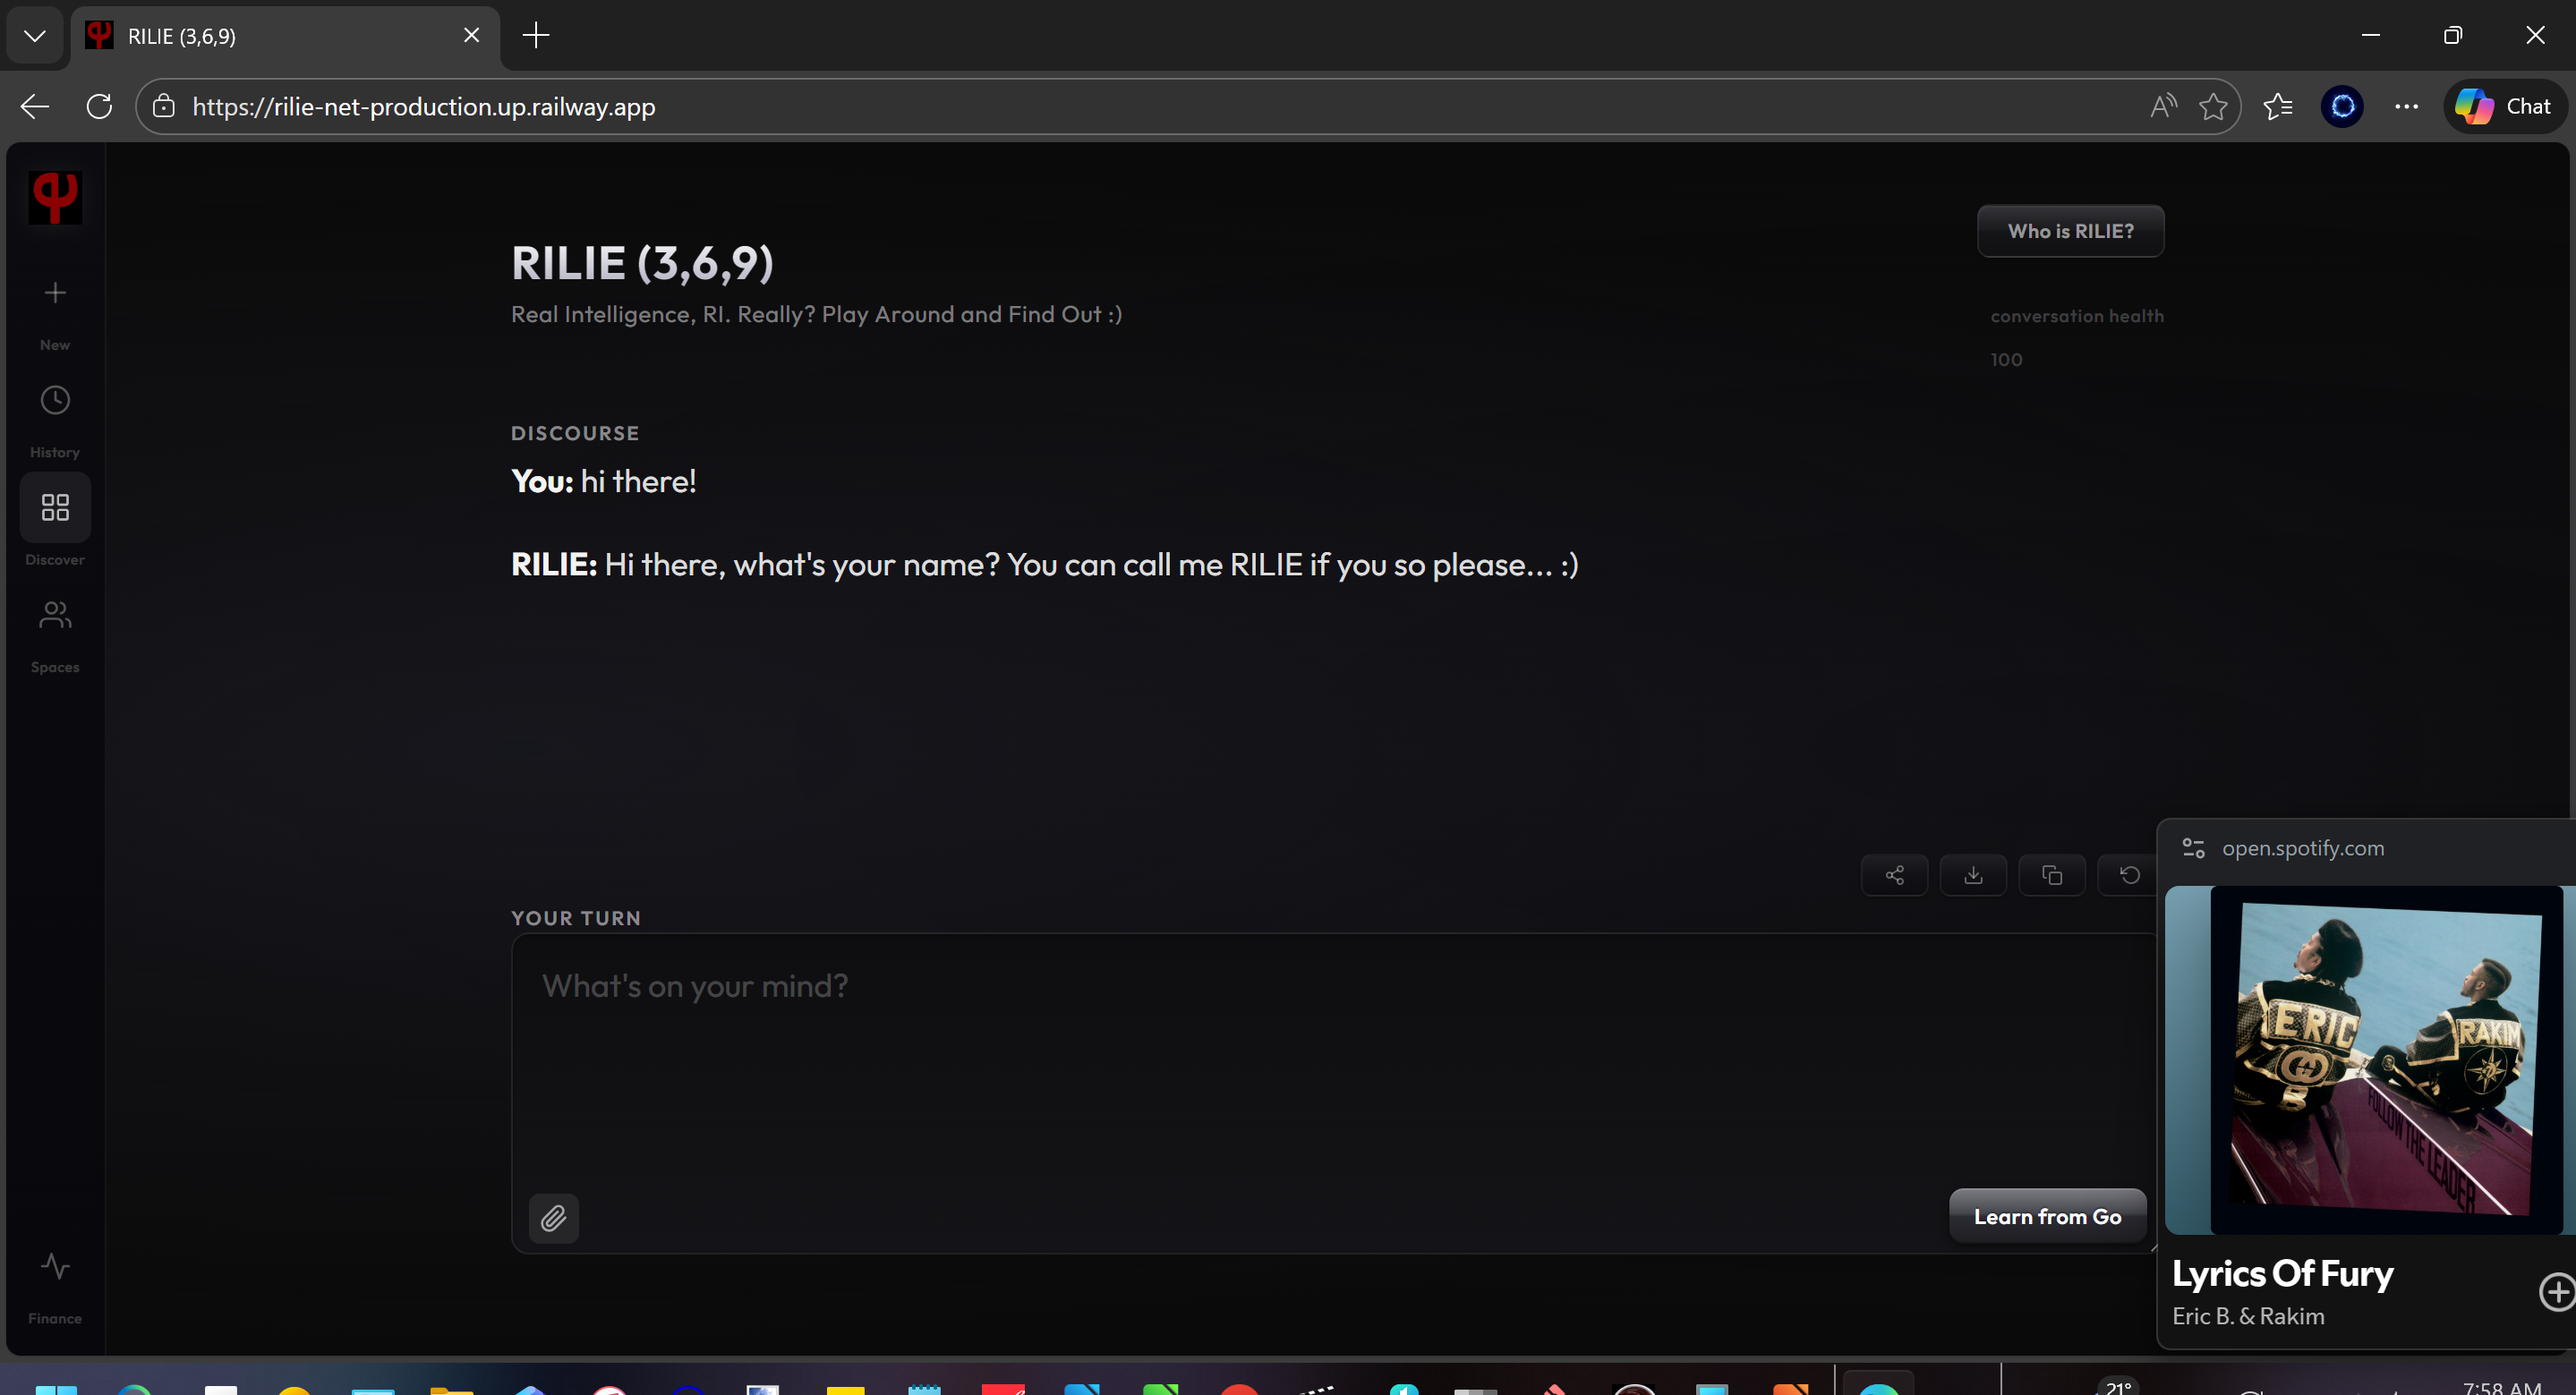
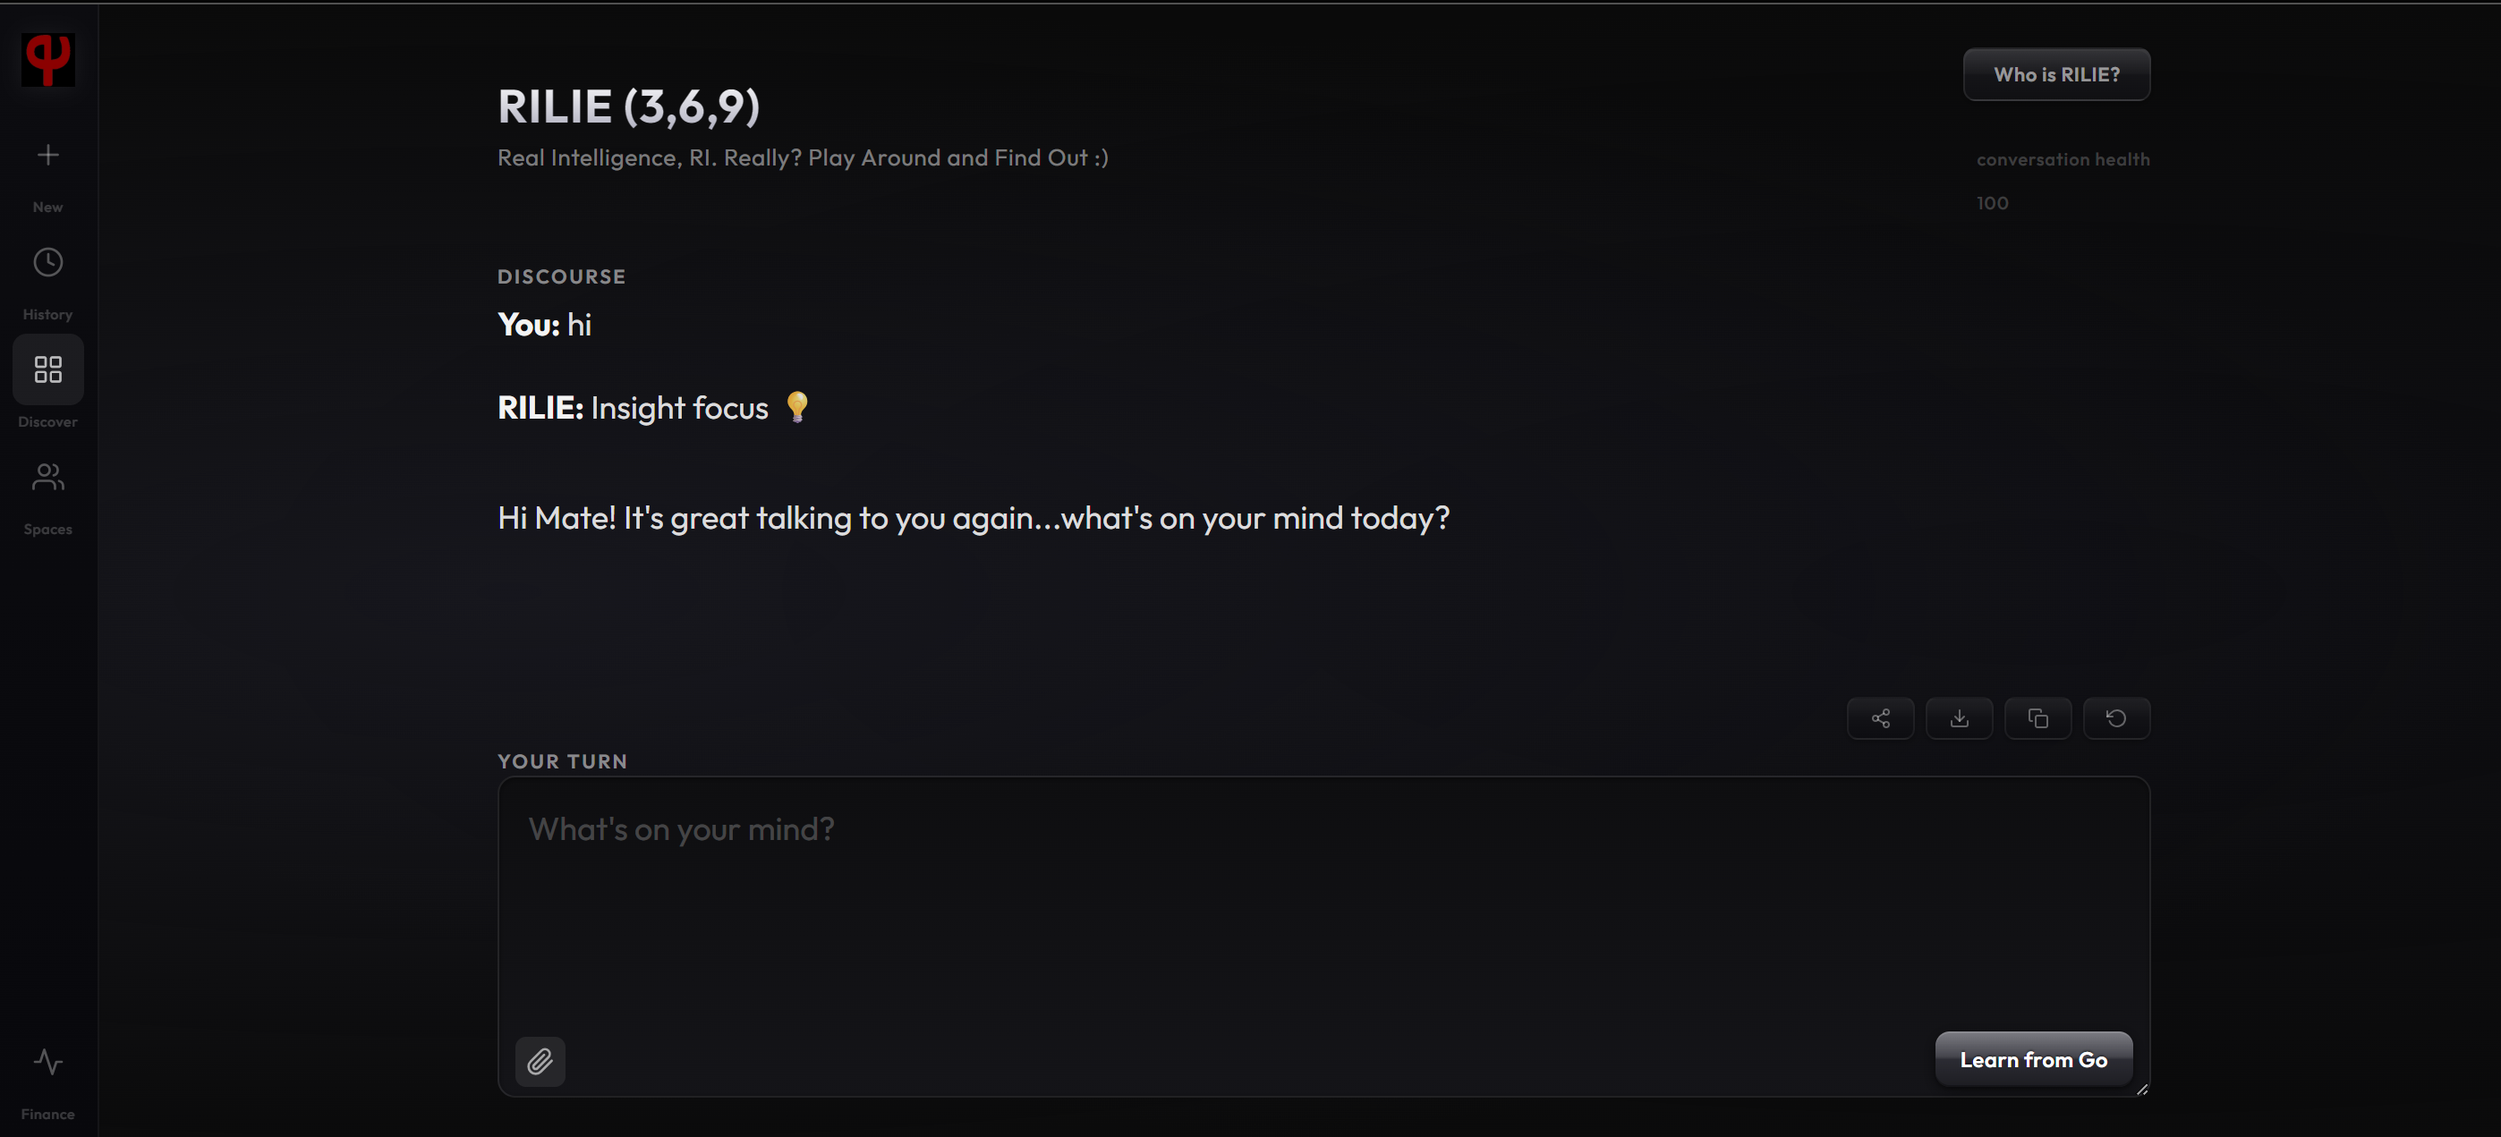
allthewaylive

diff --git a/rilie_2xd.py b/rilie_2xd.py
@@ -97,53 +97,22 @@ SERIOUS_TASTE_TEMPLATES_2 = [
     "Keep going — I'm with you.",
 ]
 
+
 # ============================================================================
 # PUBLIC API: Build response by exchange count
 # ============================================================================
+
 
 def shape_for_disclosure(
     raw_result: str,
     conversation: ConversationState,
 ) -> str:
     """
-    Decide what text should actually be spoken this turn.
-
-    - TASTE (turns 1–2): ignore Kitchen text and emit Hostess templates.
-      Kitchen may still run under the hood; we just don't serve its words yet.
-    - OPEN and beyond: keep Kitchen text as-is.
+    TASTE is internal. It never speaks for her.
+    Everything goes to the speech pipeline.
+    She generates or she's silent.
     """
-
-    level = conversation.disclosure_level
-
-    # OPEN / beyond: let Kitchen text through unchanged.
-    if level is not DisclosureLevel.TASTE:
-        return raw_result
-
-    # We are in TASTE: pick from the right template bucket.
-    taste_turn = conversation.taste_turn  # 0, 1, or 2+
-    # Use the latest stimulus, if available, to judge seriousness.
-    last_stimulus = (
-        conversation.stimuli_history[-1]
-        if conversation.stimuli_history
-        else raw_result
-    )
-    serious = is_serious_subject_text(last_stimulus)
-
-    if taste_turn == 0:
-        # First TASTE turn.
-        pool = SERIOUS_TASTE_TEMPLATES_1 if serious else TASTE_TEMPLATES_1
-    elif taste_turn == 1:
-        # Second TASTE turn.
-        pool = SERIOUS_TASTE_TEMPLATES_2 if serious else TASTE_TEMPLATES_2
-    else:
-        # Past turn 2: Hostess is off-duty, treat as OPEN.
-        return raw_result
-
-    if not pool:
-        # Safety fallback: never go silent just because templates are empty.
-        return raw_result
-
-    return random.choice(pool)
+    return raw_result
 
 
 def is_serious_subject_text(text: str) -> bool:
@@ -153,6 +122,5 @@ def is_serious_subject_text(text: str) -> bool:
         "suicide", "disease", "war", "racism", "politics",
         "diaspora", "suffering", "grief",
     ]
-
     text_lower = text.lower()
     return any(word in text_lower for word in serious_words)
